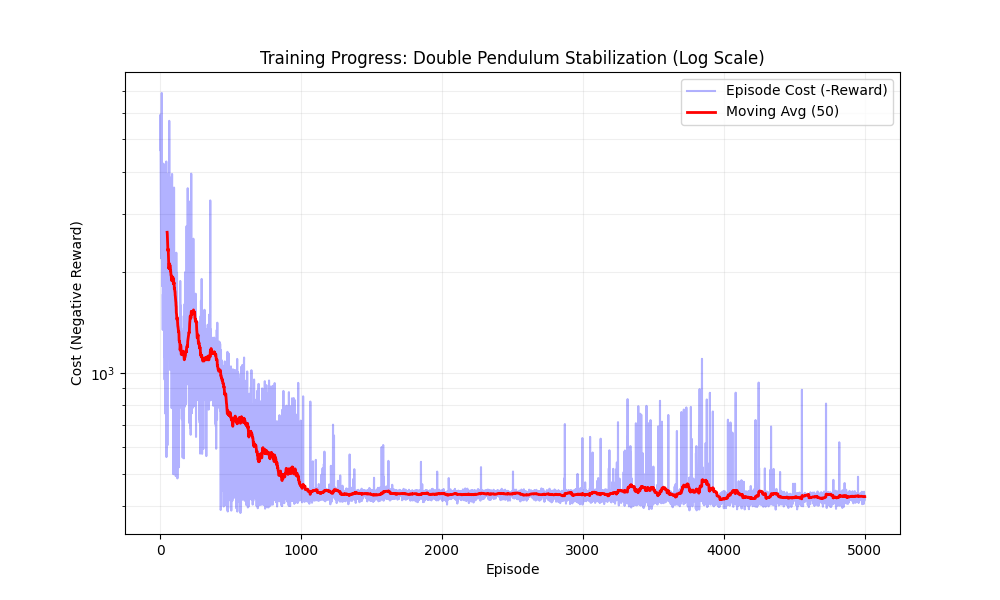
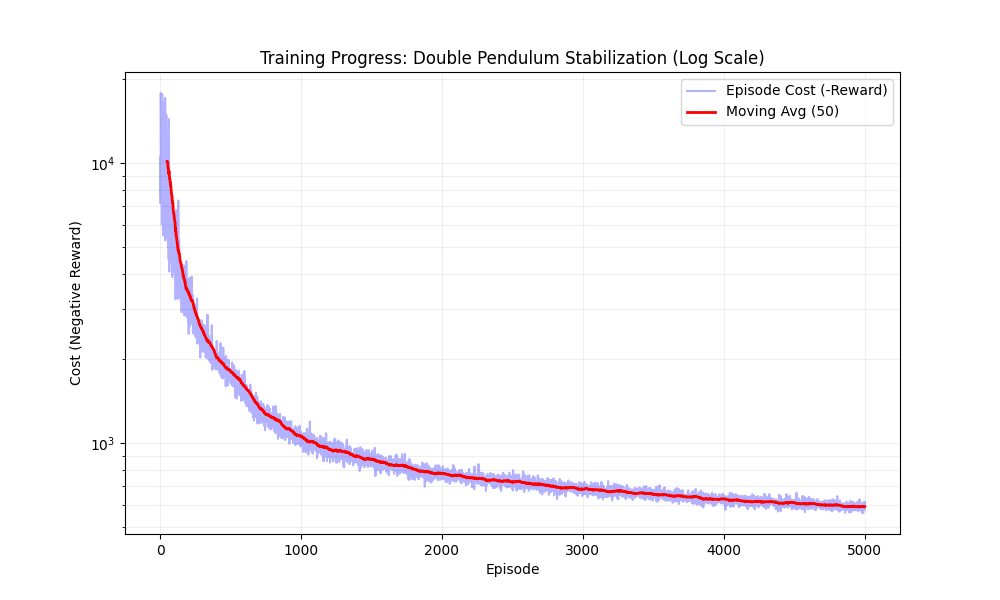
Docs: Update overlay GIF and fix exploration bias

diff --git a/src/visualize_overlay.py b/src/visualize_overlay.py
@@ -14,19 +14,42 @@ from src.agent.ppo import PPOAgent
 from src.utils.visualizer import Visualizer
 
 def visualize_overlay(log_dir="logs", num_checkpoints=5, duration=10.0, save_gif=False, output_gif="docs/images/overlay_montage.gif"):
-    # 1. Find Checkpoints
-    checkpoints = glob.glob(os.path.join(log_dir, "ppo_*_*.pth"))
-    # Filter out 'final' if we want specific steps, or include it.
-    # Let's sort by episode number.
-    # Filename format: ppo_YYYYMMDD_HHMMSS_EPISODE.pth
+    # 1. Find Checkpoints from the LATEST run
+    all_checkpoints = glob.glob(os.path.join(log_dir, "ppo_*_*.pth"))
+    if not all_checkpoints:
+        print("No checkpoints found.")
+        return
+
+    # Extract run IDs (YYYYMMDD_HHMMSS)
+    # Filename: ppo_RUNID_EPISODE.pth
+    run_ids = set()
+    for f in all_checkpoints:
+        parts = os.path.basename(f).split('_')
+        if len(parts) >= 3:
+            run_id = f"{parts[1]}_{parts[2]}"
+            run_ids.add(run_id)
+    
+    if not run_ids:
+        print("No valid run IDs found.")
+        return
+
+    # Sort run IDs to find latest
+    latest_run_id = sorted(list(run_ids))[-1]
+    print(f"Using checkpoints from latest run: {latest_run_id}")
+    
+    checkpoints = [f for f in all_checkpoints if latest_run_id in f]
     
     def get_episode(f):
         try:
             return int(f.split('_')[-1].split('.')[0])
         except:
-            return 999999 # Final
+            return "Final" # Return string "Final" for display sorting/labeling logic needs update
 
-    checkpoints.sort(key=get_episode)
+    def get_sort_key(f):
+        ep = get_episode(f)
+        return 999999999 if ep == "Final" else ep
+
+    checkpoints.sort(key=get_sort_key)
     
     if len(checkpoints) == 0:
         print("No checkpoints found.")

diff --git a/src/agent/ppo.py b/src/agent/ppo.py
@@ -19,7 +19,8 @@ class ActorCritic(nn.Module):
         )
         
         # Learnable Log Standard Deviation for continuous action
-        self.log_std = nn.Parameter(torch.zeros(action_dim))
+        # Initialize to 1.0 (std ~ 2.7) to encourage exploration
+        self.log_std = nn.Parameter(torch.ones(action_dim) * 1.0)
         
         # Critic Network (Value)
         self.critic = nn.Sequential(
